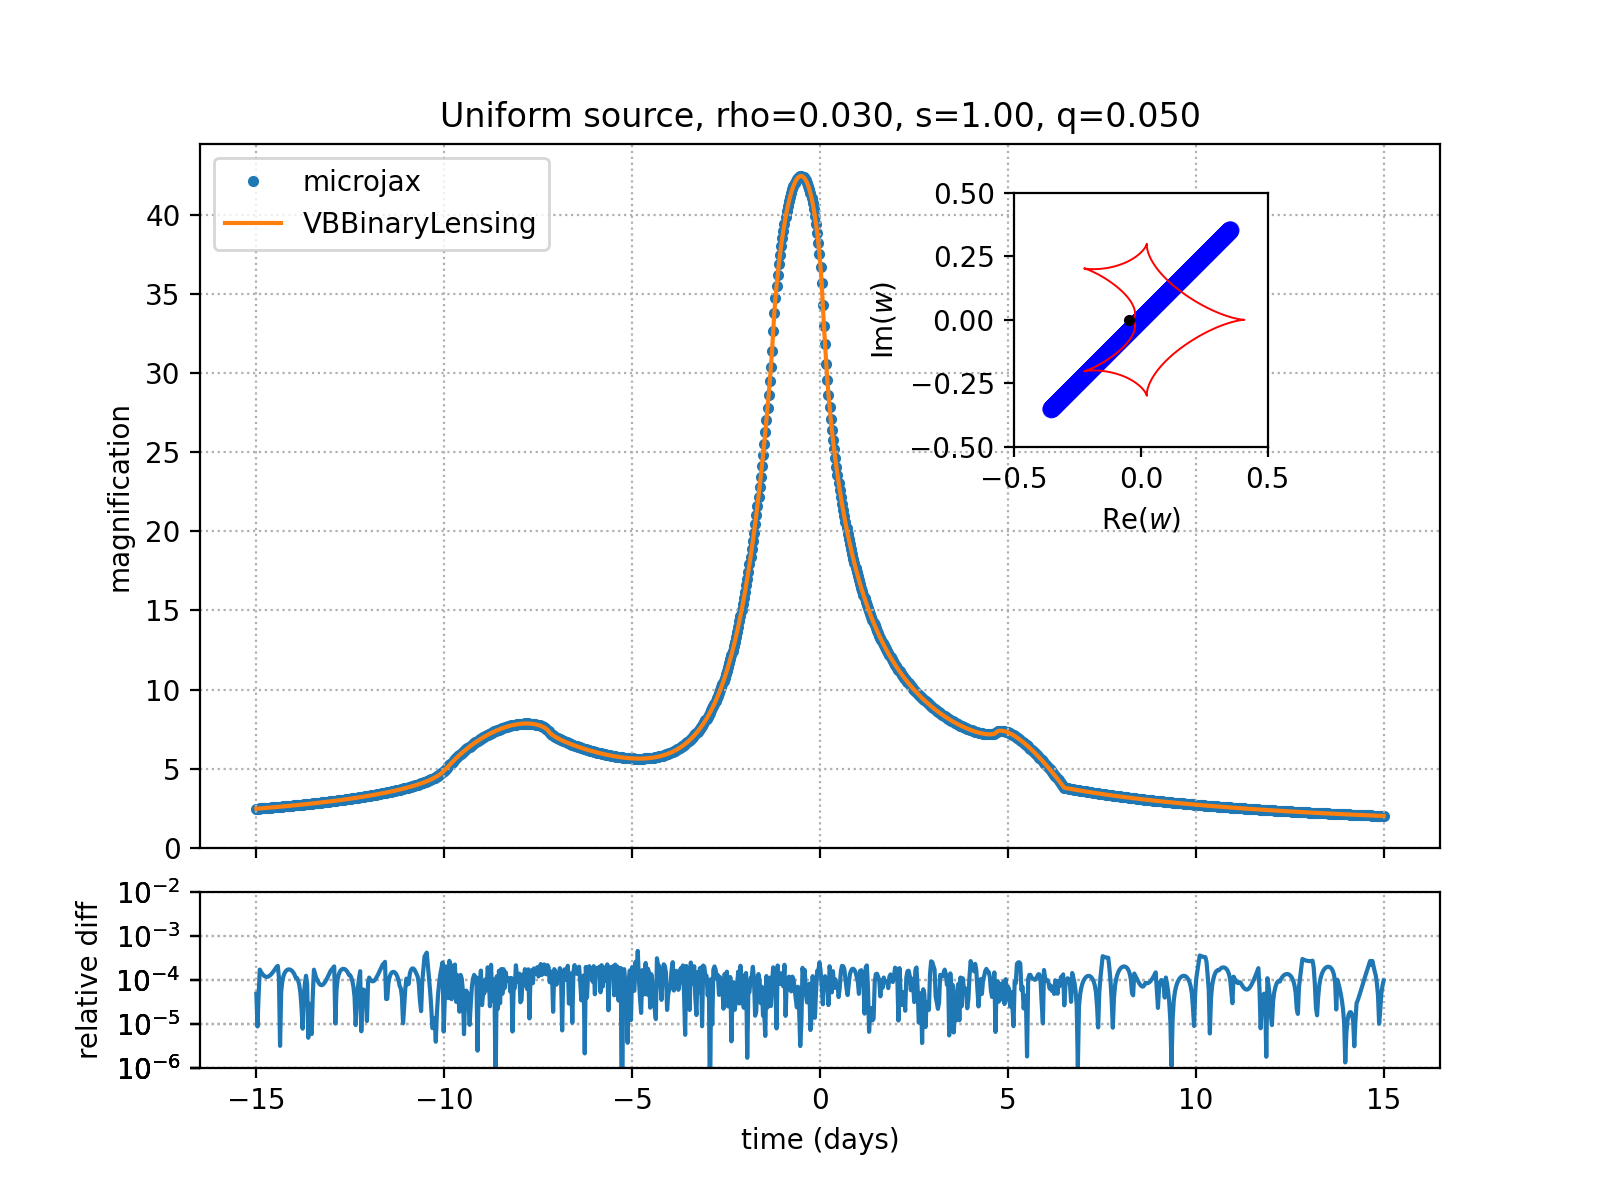
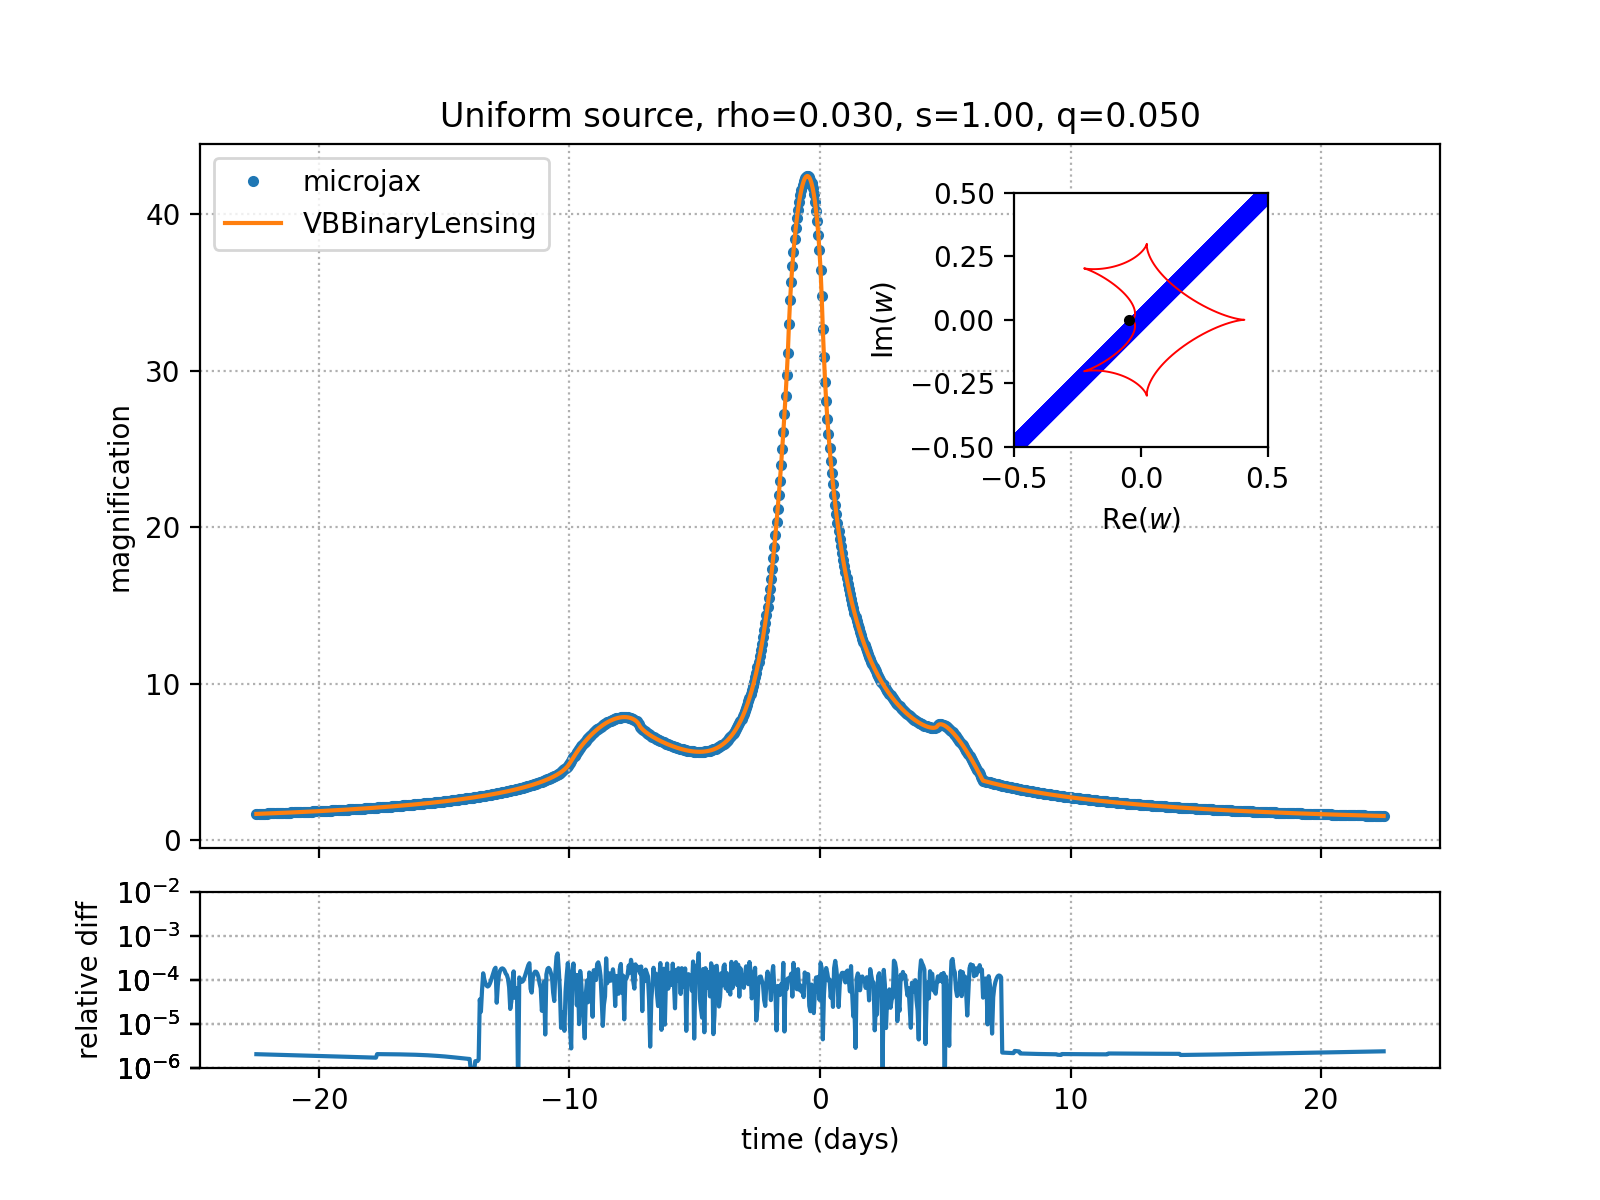
add examples

diff --git a/example/compare-vbbl/compare_binary_limb_dark.py b/example/compare-vbbl/compare_binary_limb_dark.py
@@ -13,6 +13,7 @@ t0 = 0.0
 u0 = 0.0
 rho = 0.03
 nlenses = 2
+u1 = 0.2
 
 a = 0.5 * s
 e1 = q / (1.0 + q)
@@ -43,8 +44,7 @@ from microjax.point_source import _images_point_source
 import VBBinaryLensing
 
 _vbbl_solver = VBBinaryLensing.VBBinaryLensing()
-u1=0.0
-accuracy=5e-4
+accuracy=1e-4
 _vbbl_solver.RelTol = accuracy
 _vbbl_solver.Tol = accuracy
 _vbbl_solver.a1 = u1
@@ -71,10 +71,11 @@ _ = mag_binary(
     chunk_size=chunk_size,
     s=s,
     q=q,
+    u1=u1,
 ).block_until_ready()
 _ = mag_point_source(w_points, s=s, q=q).block_until_ready()
 z, z_mask = _images_point_source(w_points - x_cm, nlenses=nlenses, **_params)
-_, _ = _mag_hexadecapole(z, z_mask, rho, nlenses=nlenses, **_params) 
+_, _ = _mag_hexadecapole(z, z_mask, rho, nlenses=nlenses, u1=u1, **_params)
 
 print("number of data points: %d"%(num_points))
 start = time.time()
@@ -85,7 +86,7 @@ print("computation time: %.3f sec (%.3f ms per points) for point-source in micro
 
 start = time.time()
 z, z_mask = _images_point_source(w_points - x_cm, nlenses=nlenses, **_params)
-mu_multi, delta_mu_multi = _mag_hexadecapole(z, z_mask, rho, nlenses=nlenses, **_params)
+mu_multi, delta_mu_multi = _mag_hexadecapole(z, z_mask, rho, nlenses=nlenses, u1=u1, **_params)
 mu_multi.block_until_ready()
 end = time.time()
 print("computation time: %.3f sec (%.3f ms per points) for hexadecapole in microjax"%(end-start, 1000*(end - start)/num_points))
@@ -111,6 +112,7 @@ mag_jax = mag_binary(
     chunk_size=chunk_size,
     s=s,
     q=q,
+    u1=u1,
 ).block_until_ready()
 end = time.time()
 print("computation time: %.3f sec (%.3f ms per points) with microjax mag_binary, %d chunk_size, %d max_full, %d rbin, %d thbin"
@@ -145,7 +147,7 @@ ax_in.plot((1.0)/(1+q) * s, 0 ,".",c="k")
 ax.plot(t, mag_jax, ".", label="microjax", zorder=1)
 ax.plot(t, mag_VB, "-", label="VBBinaryLensing", zorder=2)
 ylim = ax.get_ylim()
-ax.set_title("Uniform source, rho=%.3f, s=%.2f, q=%.3f"%(rho, s, q))
+ax.set_title("Limb-darkened source, rho=%.3f, s=%.2f, q=%.3f, u1=%.2f"%(rho, s, q, u1))
 ax.grid(ls=":")
 ax.set_ylabel("magnification")
 #ax.plot(t, mags_poi, "--", label="point_source", zorder=-1, color="gray")
@@ -160,6 +162,6 @@ ax1.yaxis.set_major_locator(ticker.LogLocator(base=10.0, subs=[1.0, 10**-2, 10**
 ax1.set_ylim(1e-6, 1e-2)
 ax.legend(loc="upper left")
 ax1.set_xlabel("time (days)")
-fig.savefig("example/compare-vbbl/compare_binary_uniform.png", dpi=200)
-print("output: example/compare-vbbl/compare_binary_uniform.png")
+fig.savefig("example/compare-vbbl/compare_binary_limb_dark.png", dpi=200)
+print("output: example/compare-vbbl/compare_binary_limb_dark.png")
 plt.close()
